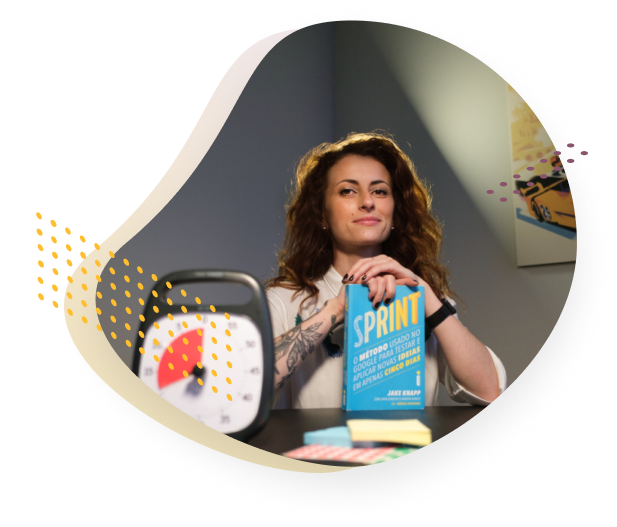
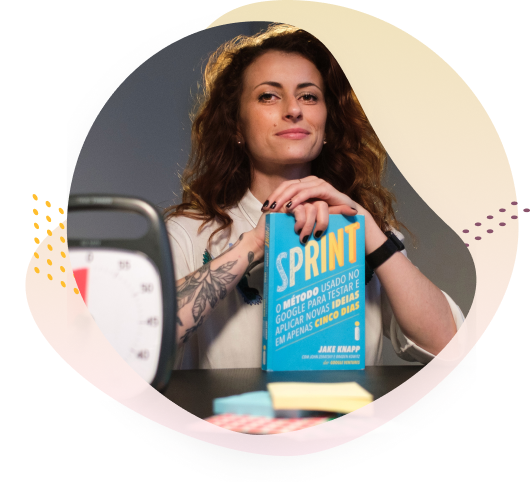
Update homepage

diff --git a/components/KDesignSprint.vue b/components/KDesignSprint.vue
@@ -2,10 +2,16 @@
   <div :class="$style['design-sprint']">
     <k-center>
       <div :class="$style['design-sprint-content']">
-        <img src="@/assets/design-sprint.png" alt="" :class="$style['design-sprint-image']">
+        <div :class="$style['design-sprint-image-wrapper']">
+          <img src="@/assets/design-sprint.png" alt="" :class="$style['design-sprint-image']">
+          <p :class="$style['design-sprint-image-description']">Facilitação profissional pela Designer Bruna Ferencz, certificada por Jake Knapp e a agência AJ&Smart, baseada em Berlim.</p>
+        </div>
         <div>
           <h3 :class="$style['design-sprint-title']">Design sprints</h3>
-          <p :class="$style['design-sprint-description']">Método escrito no Google por Jake Knapp, utilizado para inovar, solucionando grandes desafios em poucos dias. Bruna Ferencz é nossa facilitadora de Design Sprints certificada por Jake Knapp e AJ&Smart.</p>
+          <div :class="$style['design-sprint-description']">
+            <p>Facilitamos o método Design Sprint 2.0 por sua capacidade de alcançar resultados de alta qualidade em apenas quatro dias. </p>
+            <p>Durante a imersão com o time de especialistas do negócio, conduzimos da concepção, à construção e a validação de soluções para produtos e serviços digitais. </p>
+          </div>
         </div>
       </div>
     </k-center>
@@ -23,32 +29,30 @@ export default {
 </script>
 
 <style lang="scss" module>
-.design-sprint {
-  position: relative;
-
-  &::before {
-    content: '';
-    position: absolute;
-    top: 0;
-    left: 0;
-    right: 0;
-    z-index: -1;
-    height: 1285px;
-  background: linear-gradient(180deg, rgba(240, 226, 187, 0) 0%, #F0E2BB 35.94%, #F1E8EB 73.44%, rgba(241, 232, 235, 0) 100%);
-  }
-}
-
 .design-sprint-content {
   display: flex;
   align-items: center;
-  margin-bottom: 70px;
-  position: relative;
-  z-index: 2;
+  margin-bottom: 125px;
+}
+
+.design-sprint-image-wrapper {
+  margin-left: 25px;
+  margin-right: 80px;
+  max-width: 530px;
 }
 
 .design-sprint-image {
-  margin-left: -62px;
-  margin-right: 95px;
+  display: block;
+  margin-bottom: 25px;
+}
+
+.design-sprint-image-description {
+  font-size: 18px;
+  line-height: 23px;
+  text-align: center;
+  letter-spacing: 0.1em;
+  max-width: 420px;
+  margin: 0 auto;
 }
 
 .design-sprint-title {
@@ -59,15 +63,19 @@ export default {
   text-transform: uppercase;
   color: rgba(#5A223B, 0.8);
   max-width: 400px;
-  margin-bottom: 10px;
-  }
+  margin-bottom: 25px;
+}
 
 .design-sprint-description {
   font-size: 20px;
-  line-height: 34px;
+  line-height: 25px;
   letter-spacing: 0.1em;
   color: rgba(#5A223B, 0.8);
-  max-width: 300px;
+  max-width: 415px;
+
+  p {
+    margin-bottom: 20px;
+  }
 }
 
 @media (max-width: 1120px) {

diff --git a/components/KHighlights.vue b/components/KHighlights.vue
@@ -1,0 +1,91 @@
+<template>
+  <div :class="$style['highlights']">
+    <k-center>
+      <h2 :class="$style['highlights-title']">4 dias de imersão em floripa</h2>
+      <template v-for="(highlight, index) in highlights">
+        <div :key="index" :class="$style['highlight']">
+          <img :src="highlight.image" :class="$style['highlight-image']">
+          <p :class="$style['highlight-description']">{{ highlight.description }}</p>
+        </div>
+      </template>
+    </k-center>
+  </div>
+</template>
+
+<script>
+import KCenter from '@/components/KCenter'
+
+export default {
+  components: {
+    KCenter,
+  },
+
+  props: {
+    highlights: {
+      type: Array,
+      default: () => ([])
+    },
+  },
+}
+</script>
+
+<style lang="scss" module>
+.highlights {
+  margin-bottom: 200px;
+}
+
+.highlights-title {
+  font-size: 30px;
+  font-weight: 300;
+  line-height: 92px;
+  text-align: center;
+  letter-spacing: 0.2em;
+  text-transform: uppercase;
+  margin-bottom: 10px;
+}
+
+.highlight {
+  max-width: 755px;
+  margin: 0 auto 60px;
+  position: relative;
+
+  &:last-child {
+    margin-bottom: 0;
+  }
+
+  &::before {
+    content: '';
+    position: absolute;
+    top: 53px;
+    width: 57px;
+    height: 317px;
+    background: linear-gradient(180deg, #F0E2BB 0%, #FFEDF3 100%);
+    border-radius: 2px;
+  }
+
+  &:nth-child(even) {
+    &::before {
+      left: -10px;
+    }
+  }
+
+  &:nth-child(odd) {
+    &::before {
+      right: -10px;
+    }
+  }
+}
+
+.highlight-image {
+  display: block;
+}
+
+.highlight-description {
+  max-width: 715px;
+  margin: 0 auto;
+  font-size: 22px;
+  line-height: 28px;
+  text-align: center;
+  letter-spacing: 0.1em;
+}
+</style>

diff --git a/pages/index.vue b/pages/index.vue
@@ -5,6 +5,7 @@
       <k-services />
       <k-digital />
       <k-design-sprint />
+      <k-highlights :highlights="highlights" />
       <k-testimonial :testimonials="testimonials" />
       <k-projects :projects="projects" />
       <k-zaman />
@@ -19,6 +20,7 @@ import KHeader from '@/components/KHeader'
 import KServices from '@/components/KServices'
 import KDigital from '@/components/KDigital'
 import KDesignSprint from '@/components/KDesignSprint'
+import KHighlights from '@/components/KHighlights'
 import KTestimonial from '@/components/KTestimonial'
 import KProjects from '@/components/KProjects'
 import KZaman from '@/components/KZaman'
@@ -31,6 +33,7 @@ export default {
     KServices,
     KDigital,
     KDesignSprint,
+    KHighlights,
     KTestimonial,
     KProjects,
     KZaman,
@@ -39,10 +42,9 @@ export default {
   },
 
   async asyncData({ $content }) {
-    const posts = await $content('blog')
-      .only(['title', 'description', 'image', 'slug'])
-      .sortBy('updatedAt')
-      .limit(2)
+    const highlights = await $content('highlights')
+      .only(['description', 'image', 'order'])
+      .sortBy('order')
       .fetch()
     const testimonials = await $content('testimonial')
       .only(['name', 'company', 'content', 'image', 'order'])
@@ -52,11 +54,17 @@ export default {
       .only(['title', 'image', 'order'])
       .sortBy('order')
       .fetch()
+    const posts = await $content('blog')
+      .only(['title', 'description', 'image', 'slug'])
+      .sortBy('updatedAt')
+      .limit(2)
+      .fetch()
 
     return {
-      posts,
+      highlights,
       testimonials,
       projects,
+      posts,
     }
   }
 }
